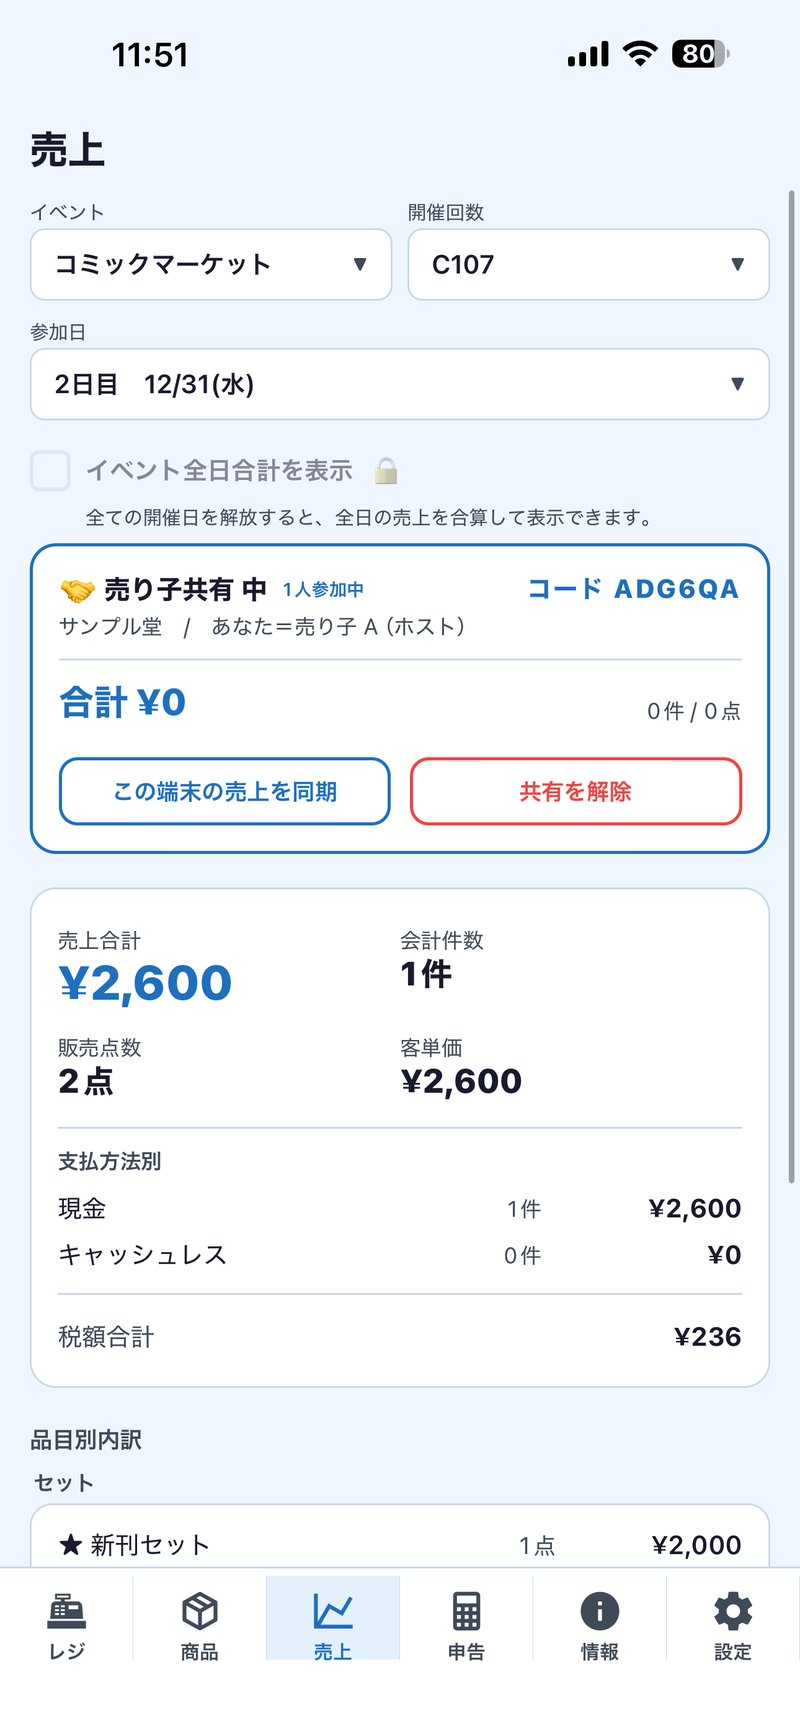
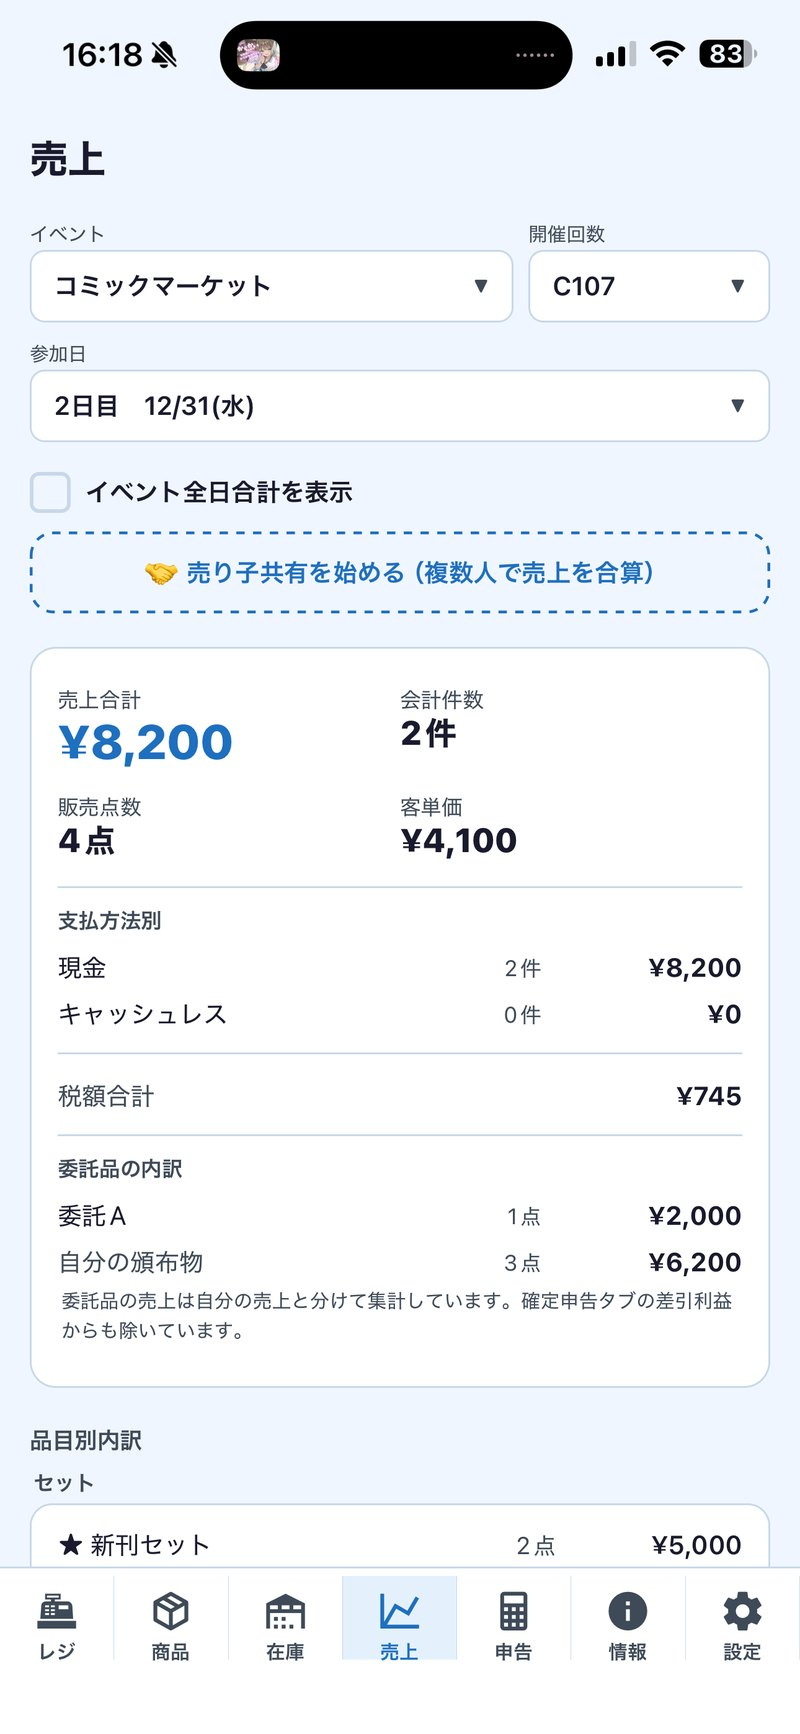
ポータル: レジさぽっ！LPに在庫節を新設し、売上・確定申告の画像を復活／比較記事の「近日公開予定」から配信済みの在庫公開を現行機能へ移動
追加保存された4枚（在庫一覧・在庫を直す・売上・確定申告）を 800x1734 で取り込み。

LP (public/urehan/index.html):
- 売上 shot10 / 確定申告 shot11 を新素材へ差し替え、前回コメントアウトしていた節を復活
  （Rev135 で撤去した解放ゲートの残骸が写っていない新素材であることを目視で確認）
- 在庫節を新設（shot13 / shot14）＝AI読取節と とれはんっ！連携節の間
- 機能一覧を 11 → 12 の機能へ（在庫の自動減算・完売表示を追加）
- 姉妹アプリ連携節に「在庫・完売の公開はイベントごとに選べる」を1文追記

比較記事 (src/content/blog/doujin-pos-app-comparison.md):
- 「近日公開予定の機能」から在庫・完売の買い手側公開を削除（4つ → 3つ）
- 同機能を現行機能の節へ移動。根拠＝urehan 1.0.8 と とれはんっ！1.0.11 が
  ともに READY_FOR_SALE、結線は torehan Rev535 (8aa0041, 2026-08-26) で配信済み

Google Play はテスト配信のままなので Play 関連の表記は一切変更していない。
検査＝check:stale-comiket 緑 / check:tap-target は urehan/index.html 0件 / build 41ページ成功。

diff --git a/public/urehan/index.html b/public/urehan/index.html
@@ -369,6 +369,15 @@
     </div>
 
     <div class="feat">
+      <h3>📦 残りが何部か、いつでも即答。在庫は自動で減る</h3>
+      <p>会計・取り置き・売り子共有で売れたぶんは、そのまま在庫から引かれます。残数はイベントをまたいで1つの一覧に並ぶので、次の即売会に何を何部持っていくかもここで決められます。増刷や当日の追加搬入は「在庫を直す」から書き換えるだけ。完売した頒布物だけを絞り込むこともできます。</p>
+      <div class="shots two">
+        <img src="img/shot13.jpg" alt="在庫一覧。イベントをまたいだ残数と完売の絞り込み" loading="lazy">
+        <img src="img/shot14.jpg" alt="在庫を直す画面。増刷や追加搬入を反映" loading="lazy">
+      </div>
+    </div>
+
+    <div class="feat">
       <h3>🔗 「とれはんっ！」連携で、買い手に見つけてもらう</h3>
       <p>レジさぽっ！で登録したお品書きは、買い手向けアプリ「とれはんっ！」に自動掲載。来場者の横断検索であなたのサークルが発見されやすくなります。「登録者数」で事前の注目度も把握できます（この表示だけはイベント開催日ごとの買い切り課金です）。</p>
       <div class="shots one">
@@ -378,13 +387,11 @@
 
     <div class="feat">
       <h3>📊 確定申告、もう怖くない。売上も経費もその場で集計</h3>
-      <p>売上と利益をその場で自動集計。支払方法別・品目別の内訳まで出るので、参加費や材料費などの経費を足せば確定申告の準備がぐっとラクになります。確定申告サマリーは無料でお使いいただけます。売り子共有で複数端末の売上を同期することも。</p>
-      <!-- 🔴 画像を外している理由（2026-09-02）:
-           旧 shot10（売上）/ shot11（確定申告）は 2026-07-10 撮影で、アプリ Rev135〔TAX-FREE〕(2026-08-25) で
-           撤去した解放ゲート（「イベント全日合計を表示 🔒」「全ての開催日を解放すると表示されます（あと1日）」）が
-           写っていた＝**今は無い制限を見せる画像**なので取り下げた。
-           2026-09-01 撮影の新スクショ10枚には売上・確定申告の画面が含まれていない。
-           撮り直しが手に入ったら shot10 / shot11 を差し替えて、この節に .shots two を戻す。 -->
+      <p>売上と利益をその場で自動集計。支払方法別・品目別の内訳まで出ます。委託品の売上は自分の売上と分けて集計されるので、参加費や材料費などの経費を足せば、そのまま確定申告の準備になります。確定申告サマリーは無料でお使いいただけます。売り子共有で複数端末の売上を同期することも。</p>
+      <div class="shots two">
+        <img src="img/shot10.jpg" alt="売上画面。支払方法別と委託品の内訳" loading="lazy">
+        <img src="img/shot11.jpg" alt="確定申告画面。売上から経費を引いた差引利益" loading="lazy">
+      </div>
     </div>
 
     <div class="feat">
@@ -398,11 +405,12 @@
 
   <!-- できること -->
   <div class="features">
-    <h2>あなたの即売会を変える、11の機能</h2>
+    <h2>あなたの即売会を変える、12の機能</h2>
     <ul>
       <li><span class="dot" style="background:#e67a38">✓</span>ワンタップで"秒"会計。おつりも自動計算</li>
       <li><span class="dot" style="background:#8b5cf6">✓</span>お品書きを撮るだけ。AIが頒布物を自動登録</li>
       <li><span class="dot" style="background:#3b82f6">✓</span>セット割・まとめ買い会計もワンタップ</li>
+      <li><span class="dot" style="background:#0ea5e9">✓</span>在庫は会計と連動して自動で減算。完売も一目で</li>
       <li><span class="dot" style="background:#f59e0b">✓</span>取り置き予約の受付・管理をアプリで一元化</li>
       <li><span class="dot" style="background:#ec4899">✓</span>Web予約ページで、どこからでも取り置き受付</li>
       <li><span class="dot" style="background:#22c55e">✓</span>売上・利益を支払方法別・品目別にその場で自動集計</li>
@@ -417,7 +425,7 @@
   <!-- 姉妹アプリ連携 -->
   <div class="sister">
     <h2>🤝 売り手のあなたと、買い手をつなぐ</h2>
-    <p>レジさぽっ！で登録した頒布物は、買い手向けアプリ「とれはんっ！」に自動で掲載。来場者の横断検索であなたのサークルが見つかりやすくなり、新しいお客さんとの出会いが生まれます。「登録者数」であなたのサークルへの注目度も事前に確認できます（この表示だけはイベント開催日ごとの買い切り課金です）。</p>
+    <p>レジさぽっ！で登録した頒布物は、買い手向けアプリ「とれはんっ！」に自動で掲載。来場者の横断検索であなたのサークルが見つかりやすくなり、新しいお客さんとの出会いが生まれます。「登録者数」であなたのサークルへの注目度も事前に確認できます（この表示だけはイベント開催日ごとの買い切り課金です）。頒布物の在庫・完売の状況を買い手側へ知らせるかどうかも、イベントごとに選べます。</p>
     <a class="link" href="/torehan/">
       とれはんっ！を見る →
     </a>
